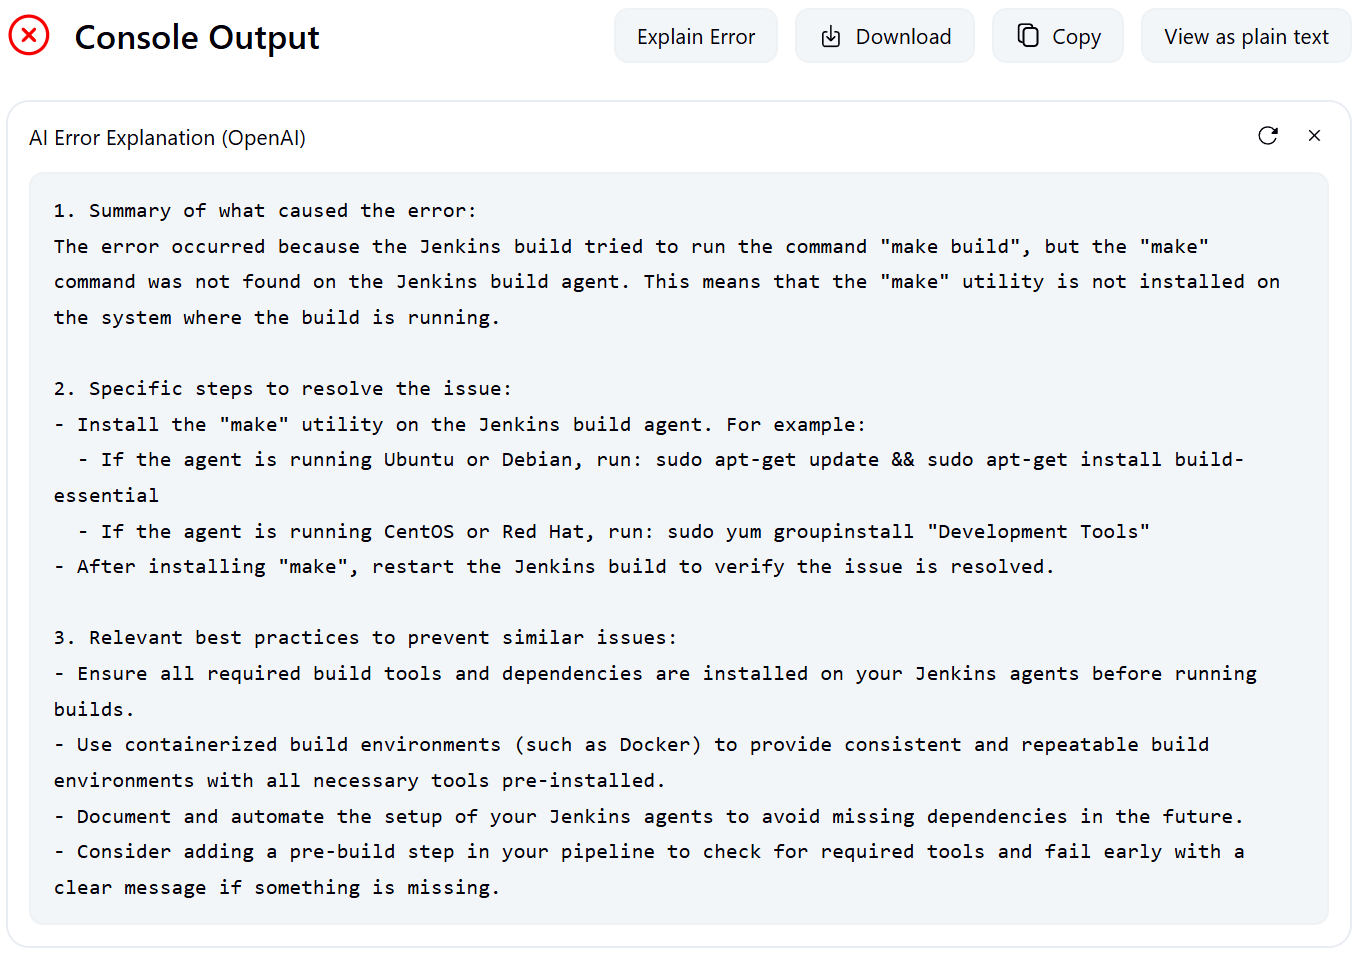
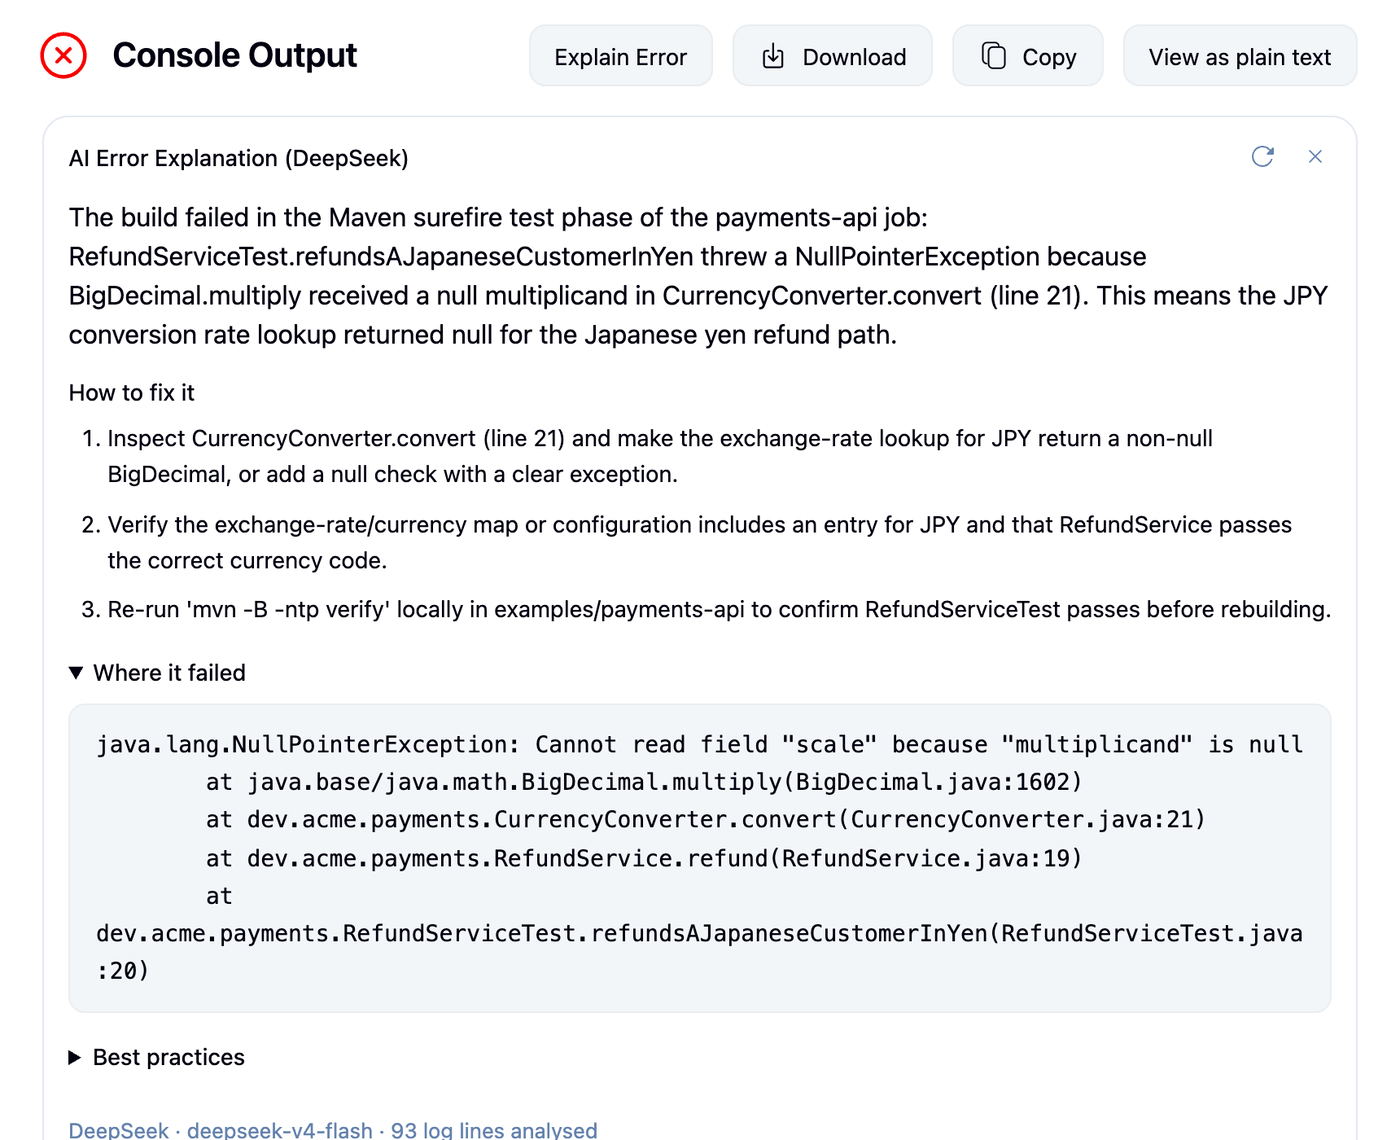
feat: show the AI explanation as sections instead of one block of text (#244)

diff --git a/src/main/webapp/js/explain-error-footer.js b/src/main/webapp/js/explain-error-footer.js
@@ -241,11 +241,32 @@ function showErrorExplanation(message, providerName, url) {
   const cardTitle = document.querySelector('.jenkins-card__title');
   cardTitle.firstChild.textContent = `AI Error Explanation (${providerName})`;
   container.classList.remove('jenkins-hidden');
-  spinner.classList.add('jenkins-hidden');
-  content.textContent = message;
-  content.classList.remove('jenkins-hidden');
-  urlString.classList.remove('jenkins-hidden');
   urlString.href = url;
+  renderExplanation(content, message).then(() => {
+    spinner.classList.add('jenkins-hidden');
+    content.classList.remove('jenkins-hidden');
+    urlString.classList.remove('jenkins-hidden');
+  });
+}
+
+// The explanation has just been stored on the build, so ask the server for it rendered
+// (summary, steps, log excerpt) rather than building markup here. The plain text is the fallback.
+function renderExplanation(content, message) {
+  const container = document.getElementById('explain-error-container');
+  const rootURL = document.head.getAttribute("data-rooturl");
+  const url = rootURL + '/' + container.dataset.runUrl + 'error-explanation/panel';
+
+  return fetch(url)
+    .then(response => response.ok ? response.text() : Promise.reject(new Error(`HTTP ${response.status}`)))
+    .then(html => {
+      content.innerHTML = html;
+    })
+    .catch(() => {
+      const plain = document.createElement('pre');
+      plain.className = 'eep-plain';
+      plain.textContent = message;
+      content.replaceChildren(plain);
+    });
 }
 
 function showSpinner() {

diff --git a/src/main/webapp/css/explain-error.css b/src/main/webapp/css/explain-error.css
@@ -1,0 +1,58 @@
+/* The AI explanation, on the build's own page and in the console card. */
+
+.eep-explanation {
+  max-width: 60rem;
+  line-height: 1.6;
+  color: var(--text-color);
+}
+
+.eep-summary {
+  margin: 0 0 1rem;
+  font-size: 1rem;
+  white-space: pre-line;
+}
+
+.eep-heading,
+.eep-details > summary {
+  margin: 1rem 0 0.5rem;
+  font-size: 0.875rem;
+  font-weight: var(--font-bold-weight, 600);
+}
+
+.eep-details > summary {
+  cursor: pointer;
+}
+
+.eep-steps,
+.eep-practices {
+  margin: 0;
+  padding-left: 1.5rem;
+}
+
+.eep-steps li,
+.eep-practices li {
+  margin-bottom: 0.5rem;
+  white-space: pre-line;
+}
+
+.eep-explanation code {
+  padding: 0.1em 0.35em;
+  border-radius: 0.3em;
+  background: var(--button-background, rgba(128, 128, 128, 0.15));
+  font-family: var(--font-family-mono, monospace);
+  font-size: 0.85em;
+  overflow-wrap: anywhere;
+}
+
+.eep-snippet,
+.eep-plain {
+  margin: 0;
+  white-space: pre-wrap;
+  overflow-wrap: anywhere;
+}
+
+.eep-meta {
+  margin: 1rem 0 0;
+  color: var(--text-color-secondary);
+  font-size: 0.8125rem;
+}

diff --git a/src/test/java/io/jenkins/plugins/explain_error/ErrorExplanationActionTest.java b/src/test/java/io/jenkins/plugins/explain_error/ErrorExplanationActionTest.java
@@ -5,9 +5,12 @@ import static org.junit.jupiter.api.Assertions.*;
 import hudson.model.FreeStyleBuild;
 import hudson.model.FreeStyleProject;
 import hudson.model.Run;
+import io.jenkins.plugins.explain_error.provider.FakeAIProvider;
 import java.io.StringWriter;
 import java.util.List;
 import net.sf.json.JSONObject;
+import org.htmlunit.html.DomNode;
+import org.htmlunit.html.HtmlPage;
 import org.junit.jupiter.api.BeforeEach;
 import org.junit.jupiter.api.Test;
 import org.jvnet.hudson.test.JenkinsRule;
@@ -284,5 +287,84 @@ class ErrorExplanationActionTest {
         legacy.onAttached(run);
         assertSame(run, legacy.getRun());
         assertNotNull(legacy.getApi());
+    }
+
+    // -----------------------------------------------------------------------
+    // The explanation as rendered for the browser
+    // -----------------------------------------------------------------------
+
+    @Test
+    void pageRendersTheAnalysisAsSections(JenkinsRule jenkins) throws Exception {
+        FreeStyleBuild build = buildWith(jenkins, structuredAction());
+
+        HtmlPage page = jenkins.createWebClient().getPage(build, "error-explanation");
+
+        DomNode summary = page.querySelector(".eep-summary");
+        assertEquals("npm ci failed: <b>package-lock.json</b> is out of sync.", summary.getTextContent().trim());
+        assertEquals("npm ci", summary.querySelector("code").getTextContent());
+        assertNull(summary.querySelector("b"), "markup written by the model must stay text");
+        assertEquals(2, page.querySelectorAll("ol.eep-steps > li").size());
+        assertEquals("npm install", page.querySelector("ol.eep-steps code").getTextContent());
+        assertEquals("npm error code EUSAGE", page.querySelector("pre.eep-snippet").getTextContent());
+        assertEquals(1, page.querySelectorAll("ul.eep-practices > li").size());
+        String meta = page.querySelector(".eep-meta").getTextContent().replaceAll("\\s+", " ").trim();
+        assertEquals("DeepSeek \u00b7 deepseek-v4-flash \u00b7 2 log lines analysed", meta);
+    }
+
+    @Test
+    void pageFallsBackToPlainTextForExplanationsWithoutFields(JenkinsRule jenkins) throws Exception {
+        FreeStyleBuild build = buildWith(jenkins, action);
+
+        HtmlPage page = jenkins.createWebClient().getPage(build, "error-explanation");
+
+        assertEquals(testExplanation, page.querySelector("pre.eep-plain").getTextContent());
+        assertNull(page.querySelector(".eep-explanation"));
+    }
+
+    @Test
+    void consoleCardShowsAnExistingExplanationAsSections(JenkinsRule jenkins) throws Exception {
+        GlobalConfigurationImpl.get().setAiProvider(new FakeAIProvider());
+        FreeStyleBuild build = buildWith(jenkins, structuredAction());
+
+        HtmlPage page = jenkins.createWebClient().getPage(build, "console");
+
+        assertEquals(2, page.querySelectorAll("#explain-error-content ol.eep-steps > li").size());
+    }
+
+    @Test
+    void panelViewServesTheExplanationOnItsOwn(JenkinsRule jenkins) throws Exception {
+        FreeStyleBuild build = buildWith(jenkins, structuredAction());
+
+        String html = jenkins.createWebClient().goTo(build.getUrl() + "error-explanation/panel", "text/html")
+                .getWebResponse().getContentAsString();
+
+        assertTrue(html.contains("class=\"eep-explanation\""), html);
+        assertTrue(html.contains("<code>npm install</code>"), html);
+        assertFalse(html.contains("<b>package-lock.json</b>"), html);
+        assertFalse(html.contains("page-header"), "the fragment must not carry the page layout");
+    }
+
+    @Test
+    void providerLabelLeavesOutWhatIsUnknown() {
+        assertEquals("Ollama", action.getProviderLabel());
+        assertEquals("DeepSeek \u00b7 deepseek-v4-flash", structuredAction().getProviderLabel());
+    }
+
+    private static ErrorExplanationAction structuredAction() {
+        ErrorExplanationAction structured = new ErrorExplanationAction(
+                "plain text", "", "line 1\nline 2", "DeepSeek", "deepseek-v4-flash", 2);
+        structured.setStructuredData(new JenkinsLogAnalysis(
+                "`npm ci` failed: <b>package-lock.json</b> is out of sync.",
+                List.of("Run `npm install`.", "Commit the lock file."),
+                List.of("Review lock file changes."),
+                "npm error code EUSAGE"));
+        return structured;
+    }
+
+    private static FreeStyleBuild buildWith(JenkinsRule jenkins, ErrorExplanationAction explanation) throws Exception {
+        FreeStyleBuild build = jenkins.buildAndAssertSuccess(jenkins.createFreeStyleProject());
+        build.addAction(explanation);
+        build.save();
+        return build;
     }
 }

diff --git a/src/main/java/io/jenkins/plugins/explain_error/ErrorExplanationAction.java b/src/main/java/io/jenkins/plugins/explain_error/ErrorExplanationAction.java
@@ -1,6 +1,7 @@
 package io.jenkins.plugins.explain_error;
 
 import edu.umd.cs.findbugs.annotations.CheckForNull;
+import edu.umd.cs.findbugs.annotations.NonNull;
 import hudson.model.Api;
 import hudson.model.Run;
 import java.util.ArrayList;
@@ -102,6 +103,55 @@ public class ErrorExplanationAction implements RunAction2 {
     @Exported(visibility = 1)
     public String getErrorSignature() {
         return errorSignature;
+    }
+
+    /**
+     * Whether the analysis is available field by field. Explanations stored by older plugin
+     * versions, and free-text answers, only have {@link #getExplanation()}.
+     */
+    public boolean isStructured() {
+        return errorSummary != null && !errorSummary.isBlank();
+    }
+
+    /** The summary as HTML for the panel: escaped, with backtick spans as {@code <code>}. */
+    @NonNull
+    public String getSummaryHtml() {
+        return ExplanationMarkup.inline(errorSummary);
+    }
+
+    @NonNull
+    public List<String> getResolutionStepsHtml() {
+        return inlineAll(resolutionSteps);
+    }
+
+    @NonNull
+    public List<String> getBestPracticesHtml() {
+        return inlineAll(bestPractices);
+    }
+
+    /** Provider and model for the line under the explanation, leaving out what is not known. */
+    @NonNull
+    public String getProviderLabel() {
+        List<String> parts = new ArrayList<>();
+        for (String part : new String[] {providerName, providerModel}) {
+            if (part != null && !part.isBlank() && !"Unknown".equals(part)) {
+                parts.add(part);
+            }
+        }
+        return String.join(" \u00b7 ", parts);
+    }
+
+    @NonNull
+    private static List<String> inlineAll(@CheckForNull List<String> values) {
+        List<String> html = new ArrayList<>();
+        if (values != null) {
+            for (String value : values) {
+                if (value != null && !value.isBlank()) {
+                    html.add(ExplanationMarkup.inline(value));
+                }
+            }
+        }
+        return html;
     }
 
     /**

diff --git a/src/main/java/io/jenkins/plugins/explain_error/ExplanationMarkup.java b/src/main/java/io/jenkins/plugins/explain_error/ExplanationMarkup.java
@@ -1,0 +1,45 @@
+package io.jenkins.plugins.explain_error;
+
+import edu.umd.cs.findbugs.annotations.CheckForNull;
+import edu.umd.cs.findbugs.annotations.NonNull;
+import hudson.Util;
+
+/**
+ * Turns a piece of AI-written text into HTML for the explanation panel.
+ *
+ * <p>The text is model output derived from build logs, so all of it is escaped. The one piece of
+ * markup recognised is a pair of backticks on a single line, which models put around commands,
+ * file names and identifiers; it becomes a {@code <code>} element.
+ */
+final class ExplanationMarkup {
+
+    private ExplanationMarkup() {
+    }
+
+    @NonNull
+    static String inline(@CheckForNull String text) {
+        if (text == null) {
+            return "";
+        }
+        StringBuilder html = new StringBuilder(text.length() + 32);
+        int from = 0;
+        while (true) {
+            int open = text.indexOf('`', from);
+            int close = open < 0 ? -1 : text.indexOf('`', open + 1);
+            if (close < 0) {
+                break;
+            }
+            String code = text.substring(open + 1, close);
+            if (code.isBlank() || code.indexOf('\n') >= 0) {
+                // Not a code span: an empty pair, or one that runs over a line break. Both stay text.
+                html.append(Util.xmlEscape(text.substring(from, close + 1)));
+                from = close + 1;
+                continue;
+            }
+            html.append(Util.xmlEscape(text.substring(from, open)))
+                    .append("<code>").append(Util.xmlEscape(code)).append("</code>");
+            from = close + 1;
+        }
+        return html.append(Util.xmlEscape(text.substring(from))).toString();
+    }
+}

diff --git a/src/test/java/io/jenkins/plugins/explain_error/ExplanationMarkupTest.java b/src/test/java/io/jenkins/plugins/explain_error/ExplanationMarkupTest.java
@@ -1,0 +1,45 @@
+package io.jenkins.plugins.explain_error;
+
+import static org.junit.jupiter.api.Assertions.assertEquals;
+
+import org.junit.jupiter.api.Test;
+
+class ExplanationMarkupTest {
+
+    @Test
+    void plainTextIsEscaped() {
+        assertEquals("a &lt; b &amp;&amp; c &gt; d", ExplanationMarkup.inline("a < b && c > d"));
+    }
+
+    @Test
+    void backticksBecomeCodeElements() {
+        assertEquals("Run <code>npm install</code>, then commit <code>package-lock.json</code>.",
+                ExplanationMarkup.inline("Run `npm install`, then commit `package-lock.json`."));
+    }
+
+    @Test
+    void markupFromTheModelIsNeverPassedThrough() {
+        assertEquals("&lt;script&gt;alert(1)&lt;/script&gt; and <code>&lt;img src=x onerror=alert(1)&gt;</code>",
+                ExplanationMarkup.inline("<script>alert(1)</script> and `<img src=x onerror=alert(1)>`"));
+    }
+
+    @Test
+    void aLoneBacktickStaysText() {
+        assertEquals("the ` character", ExplanationMarkup.inline("the ` character"));
+    }
+
+    @Test
+    void emptyAndMultiLineSpansAreNotCode() {
+        assertEquals("`` then `a\nb` then <code>c</code>", ExplanationMarkup.inline("`` then `a\nb` then `c`"));
+    }
+
+    @Test
+    void dollarSignsAndBackslashesSurvive() {
+        assertEquals("set <code>$HOME\\bin</code> for $1", ExplanationMarkup.inline("set `$HOME\\bin` for $1"));
+    }
+
+    @Test
+    void nullIsEmpty() {
+        assertEquals("", ExplanationMarkup.inline(null));
+    }
+}
